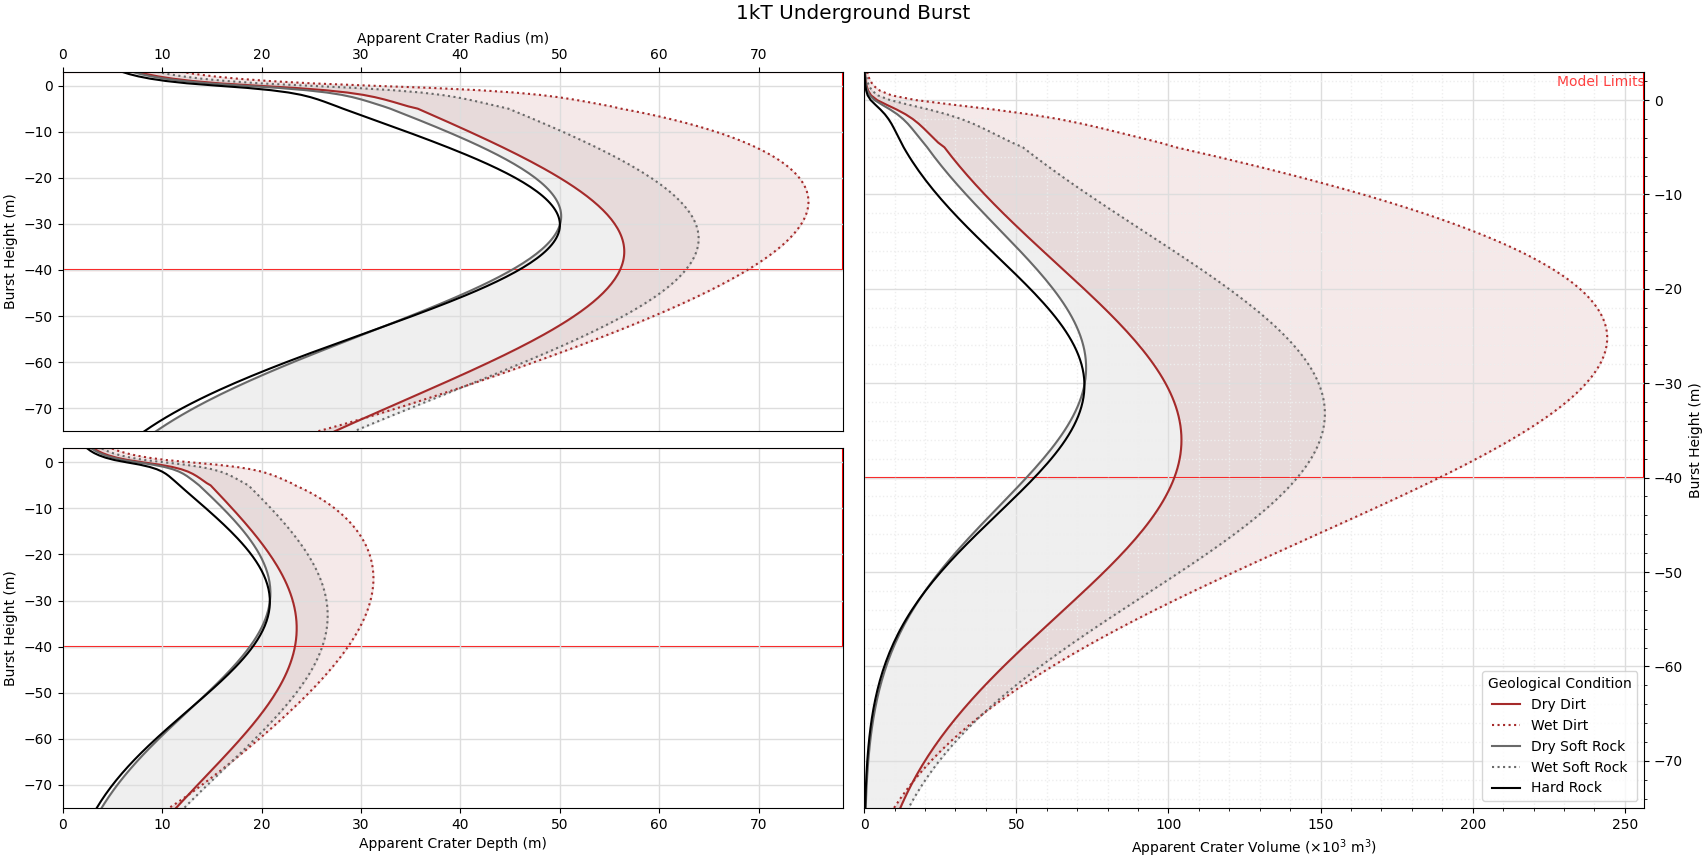
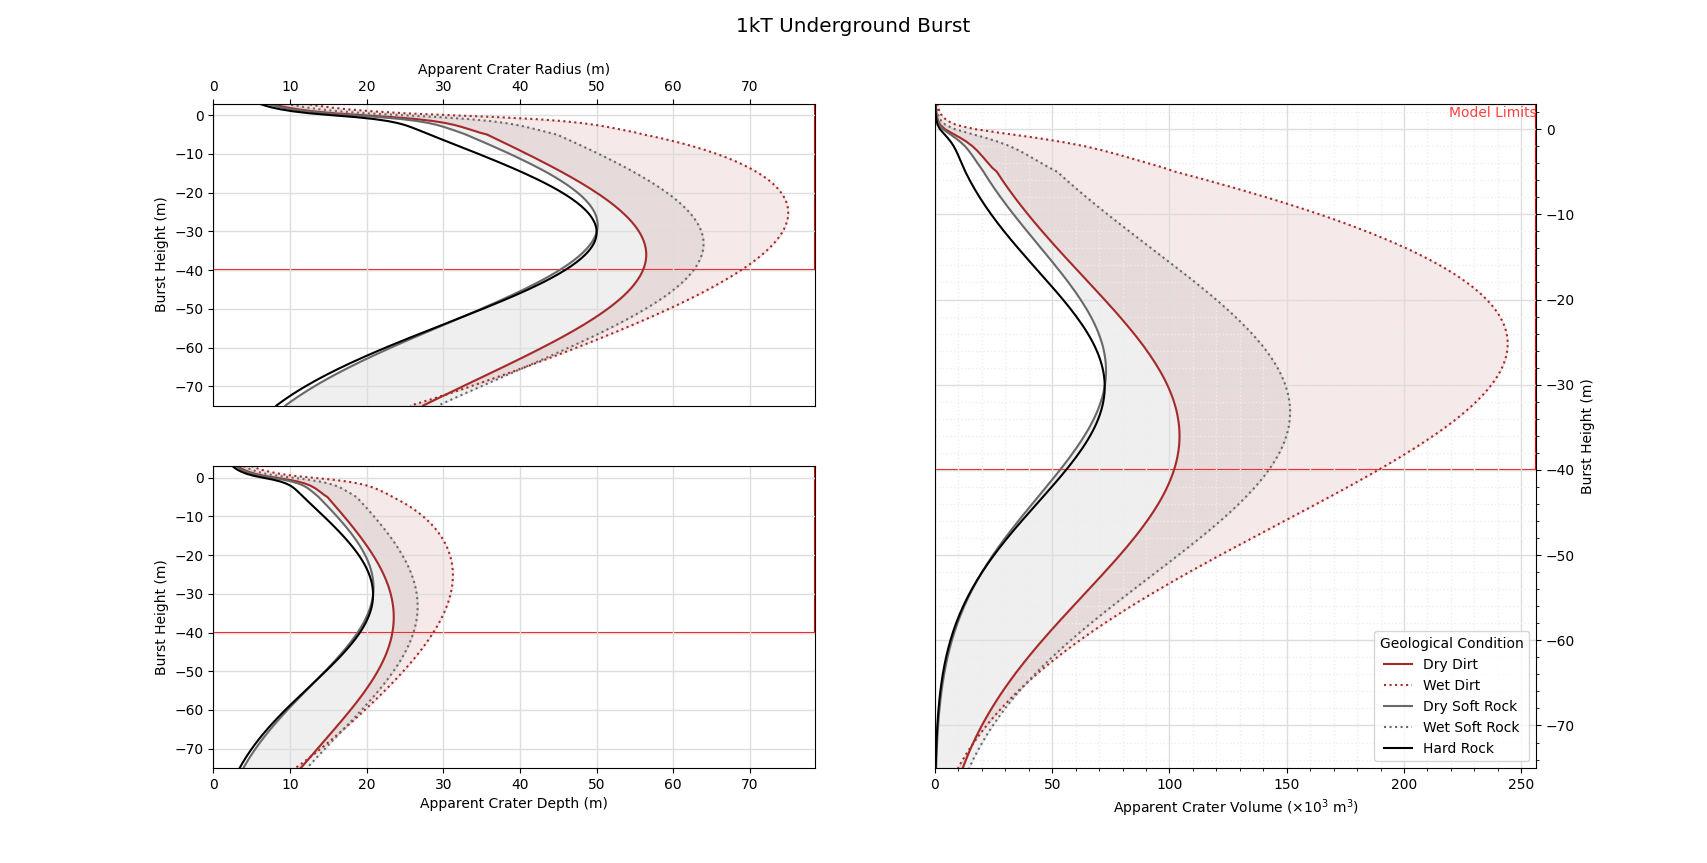
better cratering

diff --git a/graphs/crater graph - en.py b/graphs/crater graph - en.py
@@ -20,10 +20,7 @@ delta = 0.5 * Y3
 ylevels = floor((ymax - ymin) // delta) + 1
 
 
-fig, axd = plt.subplot_mosaic(
-    [["upper left", "right"], ["lower left", "right"]],
-    layout="constrained",
-)
+fig, axd = plt.subplot_mosaic([["upper left", "right"], ["lower left", "right"]])
 # ax2 = ax1.twiny()
 ax1 = axd["right"]
 ax2 = axd["upper left"]
